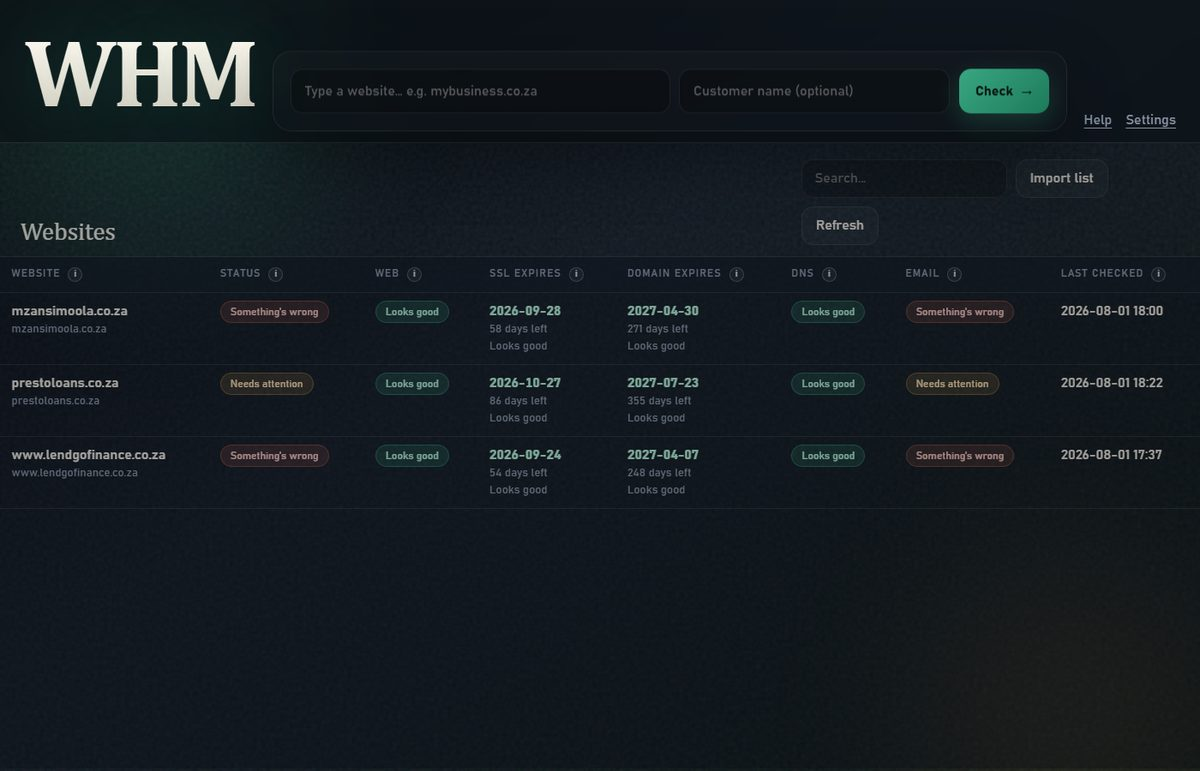
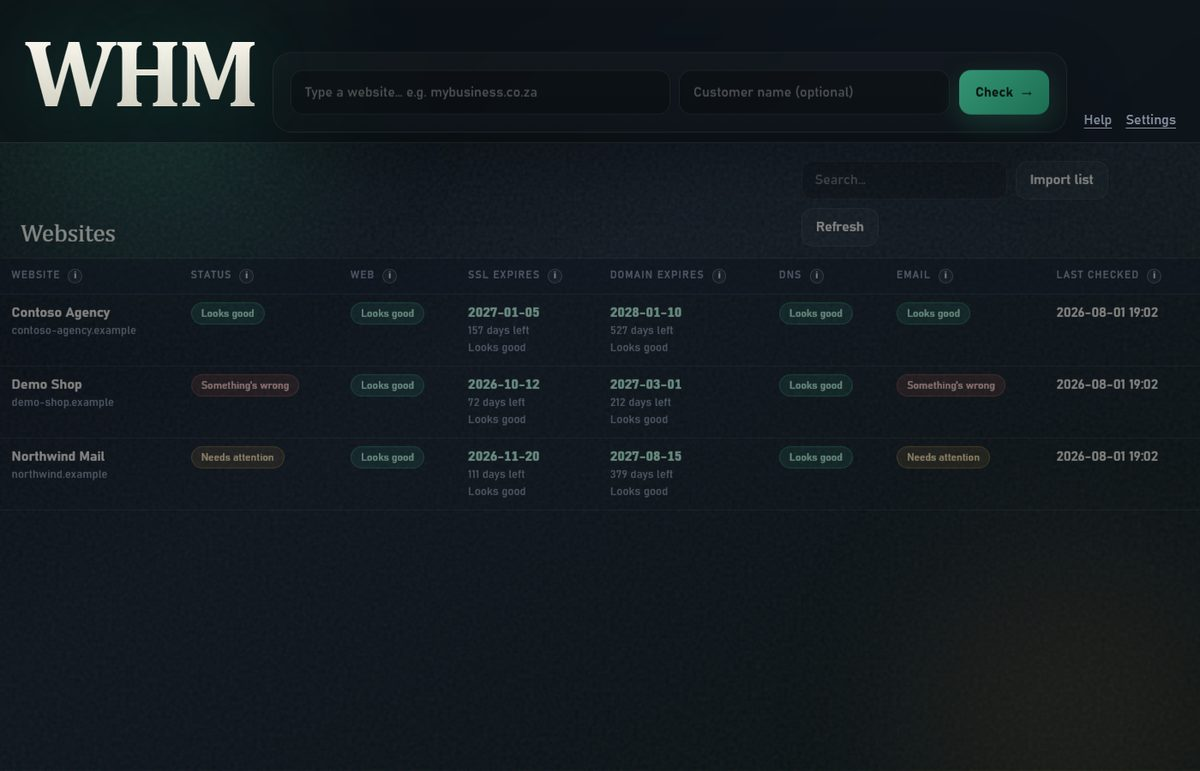
Remove real client domains from public README and samples.
README screenshot now uses demo-only sites; example CSV and tests match.

diff --git a/docs/assets/_make_demo_screenshot.py b/docs/assets/_make_demo_screenshot.py
@@ -1,0 +1,203 @@
+"""One-shot: seed a private demo DB and capture README screenshot (no real clients)."""
+
+from __future__ import annotations
+
+import json
+import sqlite3
+import sys
+import time
+import urllib.request
+from datetime import datetime, timedelta, timezone
+from pathlib import Path
+
+ROOT = Path(__file__).resolve().parents[2]
+sys.path.insert(0, str(ROOT / "src"))
+
+from whm.infrastructure.database import connect, initialize_database  # noqa: E402
+from whm.main import build_services  # noqa: E402
+from whm.presentation.webapi import start_server  # noqa: E402
+
+ASSETS = Path(__file__).resolve().parent
+DEMO_DB = ASSETS / "_demo_screenshot.db"
+OUT_JPG = ASSETS / "screenshot.jpg"
+
+
+def seed(db: Path) -> None:
+    if db.exists():
+        db.unlink()
+    conn = connect(db)
+    initialize_database(conn)
+    now = datetime.now(timezone.utc)
+    checked = now.isoformat()
+    demos = [
+        (
+            "https://demo-shop.example",
+            "demo-shop.example",
+            "Demo Shop",
+            "critical",
+            "high",
+            "healthy",
+            "healthy",
+            "healthy",
+            "healthy",
+            "critical",
+            420.0,
+            "2026-10-12",
+            72,
+            "2027-03-01",
+            212,
+        ),
+        (
+            "https://northwind.example",
+            "northwind.example",
+            "Northwind Mail",
+            "warning",
+            "medium",
+            "healthy",
+            "healthy",
+            "healthy",
+            "healthy",
+            "warning",
+            880.0,
+            "2026-11-20",
+            111,
+            "2027-08-15",
+            379,
+        ),
+        (
+            "https://contoso-agency.example",
+            "contoso-agency.example",
+            "Contoso Agency",
+            "healthy",
+            "low",
+            "healthy",
+            "healthy",
+            "healthy",
+            "healthy",
+            "healthy",
+            310.0,
+            "2027-01-05",
+            157,
+            "2028-01-10",
+            527,
+        ),
+    ]
+    for (
+        url,
+        domain,
+        name,
+        overall,
+        risk,
+        web,
+        ssl,
+        dom,
+        dns,
+        email,
+        ms,
+        ssl_exp,
+        ssl_days,
+        dom_exp,
+        dom_days,
+    ) in demos:
+        cur = conn.execute(
+            """
+            INSERT INTO websites
+            (url, domain, display_name, customer_id, dkim_selectors, created_at, last_checked_at, check_interval)
+            VALUES (?, ?, ?, NULL, 's1,s2,em,default', ?, ?, 'manual')
+            """,
+            (url, domain, name, checked, checked),
+        )
+        wid = int(cur.lastrowid)
+        raw = {
+            "ssl": {"not_after": ssl_exp, "days_remaining": ssl_days},
+            "whois": {"expiration_date": dom_exp, "days_remaining": dom_days},
+        }
+        conn.execute(
+            """
+            INSERT INTO health_checks (
+                website_id, checked_at, overall_status, risk_level,
+                website_status, ssl_status, domain_status, dns_status, email_status,
+                response_time_ms, duration_ms, error_message,
+                findings_json, dns_records_json, raw_json
+            ) VALUES (?, ?, ?, ?, ?, ?, ?, ?, ?, ?, ?, '', '[]', '[]', ?)
+            """,
+            (
+                wid,
+                checked,
+                overall,
+                risk,
+                web,
+                ssl,
+                dom,
+                dns,
+                email,
+                ms,
+                2500.0,
+                json.dumps(raw),
+            ),
+        )
+    conn.commit()
+    conn.close()
+
+
+def main() -> None:
+    seed(DEMO_DB)
+    websites, scans, settings, conn = build_services(DEMO_DB)
+    # Dedicated high port so we never screenshot a live client DB on 17865.
+    server, url = start_server(websites, scans, settings, port=27991)
+    assert "27991" in url, f"Expected demo port, got {url}"
+    try:
+        with urllib.request.urlopen(url + "api/sites", timeout=3) as resp:
+            payload = json.loads(resp.read().decode("utf-8"))
+        names = [s["display_name"] for s in payload.get("sites", [])]
+        banned = ("mzansi", "lendo", "presto", "asha", "safenet")
+        lowered = " ".join(names).lower()
+        if any(b in lowered for b in banned):
+            raise SystemExit(f"Refusing to screenshot client names: {names}")
+        if not names:
+            raise SystemExit("Demo DB has no sites")
+        print("Demo sites:", ", ".join(names))
+
+        deadline = time.time() + 8
+        while time.time() < deadline:
+            try:
+                with urllib.request.urlopen(url, timeout=1) as resp:
+                    if resp.status == 200:
+                        break
+            except Exception:
+                time.sleep(0.1)
+        chrome = Path(r"C:\Program Files\Google\Chrome\Application\chrome.exe")
+        out_png = ASSETS / "_shot.png"
+        import subprocess
+
+        subprocess.run(
+            [
+                str(chrome),
+                "--headless=new",
+                "--disable-gpu",
+                "--hide-scrollbars",
+                "--window-size=1400,900",
+                f"--screenshot={out_png}",
+                url,
+            ],
+            check=False,
+            capture_output=True,
+            timeout=30,
+        )
+        from PIL import Image
+
+        im = Image.open(out_png).convert("RGB")
+        im = im.resize((1200, int(im.height * 1200 / im.width)), Image.Resampling.LANCZOS)
+        im.save(OUT_JPG, quality=82, optimize=True, progressive=True)
+        out_png.unlink(missing_ok=True)
+        print(f"Wrote {OUT_JPG} ({OUT_JPG.stat().st_size} bytes) from {url}")
+    finally:
+        server.shutdown()
+        server.server_close()
+        conn.close()
+        time.sleep(0.3)
+        DEMO_DB.unlink(missing_ok=True)
+
+
+if __name__ == "__main__":
+    main()

diff --git a/tests/test_importer.py b/tests/test_importer.py
@@ -29,25 +29,25 @@ def test_parse_client_website_and_url_headers():
     """Match the user's spreadsheet: Client Website + URL (+ ignored extras)."""
     data = (
         b"Client Website,URL,Notes,Owner\n"
-        b"ASHA Finance,https://www.asha.co.za,ignore me,Team A\n"
-        b"LendGo Finance,https://www.lendgofinance.co.za,also ignore,Team B\n"
+        b"Demo Shop,https://demo-shop.example,ignore me,Team A\n"
+        b"Northwind Mail,https://northwind.example,also ignore,Team B\n"
     )
     rows = parse_csv_bytes(data)
     assert len(rows) == 2
-    assert rows[0].customer == "ASHA Finance"
-    assert rows[0].display_name == "ASHA Finance"
-    assert rows[0].url == "https://www.asha.co.za"
-    assert rows[1].customer == "LendGo Finance"
-    assert rows[1].url == "https://www.lendgofinance.co.za"
+    assert rows[0].customer == "Demo Shop"
+    assert rows[0].display_name == "Demo Shop"
+    assert rows[0].url == "https://demo-shop.example"
+    assert rows[1].customer == "Northwind Mail"
+    assert rows[1].url == "https://northwind.example"
 
 
 def test_example_test_clients_file_only_captures_client_and_url():
     path = EXAMPLES / "test-clients-import.csv"
     rows = parse_import_file(path.name, path.read_bytes())
-    assert len(rows) == 7
-    assert rows[0].customer == "ASHA Finance"
-    assert rows[0].url == "https://www.asha.co.za"
-    assert rows[1].customer == "LendGo Finance"
+    assert len(rows) == 6
+    assert rows[0].customer == "Demo Shop"
+    assert rows[0].url == "https://demo-shop.example"
+    assert rows[1].customer == "Northwind Mail"
     assert all(r.url.startswith("http") for r in rows)
     # Extra columns (Notes/Owner/Priority) must not become URLs or customers.
     assert all("Team" not in r.url for r in rows)
@@ -70,8 +70,8 @@ def test_parse_xlsx_client_website_structure(tmp_path):
   <si><t>Client Website</t></si>
   <si><t>URL</t></si>
   <si><t>Notes</t></si>
-  <si><t>ASHA Finance</t></si>
-  <si><t>https://www.asha.co.za</t></si>
+  <si><t>Demo Shop</t></si>
+  <si><t>https://demo-shop.example</t></si>
   <si><t>should be ignored</t></si>
 </sst>
 """
@@ -105,9 +105,9 @@ def test_parse_xlsx_client_website_structure(tmp_path):
 
     rows = parse_xlsx_bytes(xlsx.read_bytes())
     assert len(rows) == 1
-    assert rows[0].customer == "ASHA Finance"
-    assert rows[0].url == "https://www.asha.co.za"
-    assert rows[0].display_name == "ASHA Finance"
+    assert rows[0].customer == "Demo Shop"
+    assert rows[0].url == "https://demo-shop.example"
+    assert rows[0].display_name == "Demo Shop"
 
 
 def test_parse_xlsx_roundtrip(tmp_path):
@@ -206,8 +206,8 @@ def test_apply_import_client_website_sheet_creates_customers():
         .split("/")[0],
     )
     assert result.errors == []
-    assert len(result.added) == 7
-    assert "ASHA Finance" in customers
-    assert "LendGo Finance" in customers
-    assert websites[0]["display_name"] == "ASHA Finance"
-    assert websites[0]["url"] == "https://www.asha.co.za"
+    assert len(result.added) == 6
+    assert "Demo Shop" in customers
+    assert "Northwind Mail" in customers
+    assert websites[0]["display_name"] == "Demo Shop"
+    assert websites[0]["url"] == "https://demo-shop.example"

diff --git a/tests/test_false_positives.py b/tests/test_false_positives.py
@@ -299,7 +299,7 @@ def test_days_to_status_boundaries_no_false_critical():
 
 
 def test_https_url_does_not_become_literal_https_domain():
-    assert extract_domain("https://www.asha.co.za/path") == "www.asha.co.za"
+    assert extract_domain("https://www.example.com/path") == "www.example.com"
     with pytest.raises(ValueError):
         extract_domain("https://")
     with pytest.raises(ValueError):

diff --git a/README.md b/README.md
@@ -100,7 +100,7 @@ Only these columns are used (others ignored):
 
 ```csv
 Client Website,URL
-ASHA Finance,https://www.asha.co.za
+Demo Shop,https://demo-shop.example
 ```
 
 Sample list: `examples/test-clients-import.csv`  
